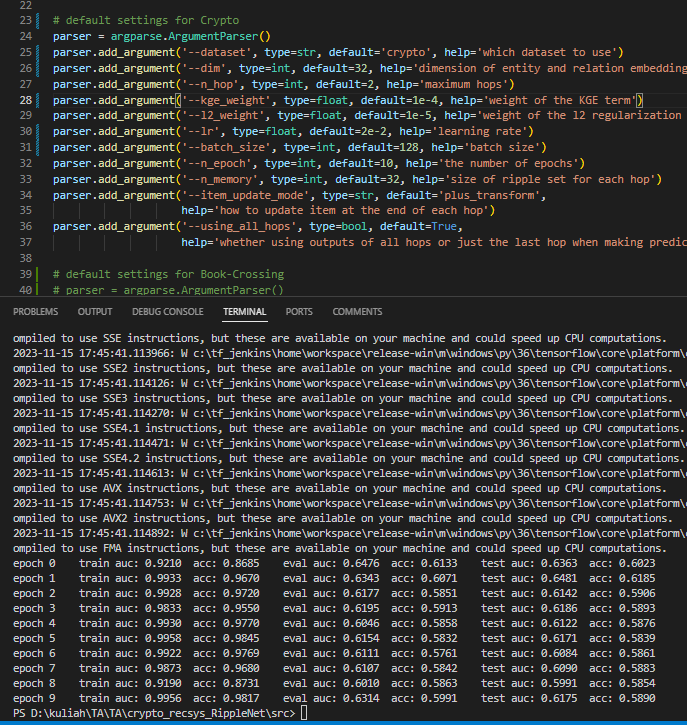
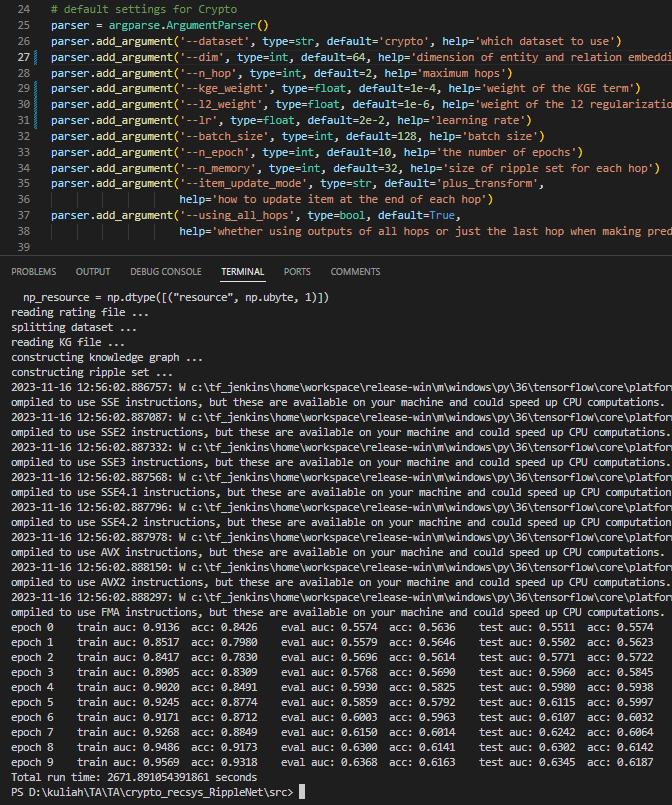
did 10 iterations

diff --git a/src/main.py b/src/main.py
@@ -24,14 +24,14 @@ np.random.seed(555)
 # default settings for Crypto
 parser = argparse.ArgumentParser()
 parser.add_argument('--dataset', type=str, default='crypto', help='which dataset to use')
-parser.add_argument('--dim', type=int, default=32, help='dimension of entity and relation embeddings')
+parser.add_argument('--dim', type=int, default=64, help='dimension of entity and relation embeddings')
 parser.add_argument('--n_hop', type=int, default=2, help='maximum hops')
 parser.add_argument('--kge_weight', type=float, default=1e-3, help='weight of the KGE term')
 parser.add_argument('--l2_weight', type=float, default=1e-5, help='weight of the l2 regularization term')
-parser.add_argument('--lr', type=float, default=1e-2, help='learning rate')
+parser.add_argument('--lr', type=float, default=2e-2, help='learning rate')
 parser.add_argument('--batch_size', type=int, default=128, help='batch size')
 parser.add_argument('--n_epoch', type=int, default=10, help='the number of epochs')
-parser.add_argument('--n_memory', type=int, default=32, help='size of ripple set for each hop')
+parser.add_argument('--n_memory', type=int, default=128, help='size of ripple set for each hop')
 parser.add_argument('--item_update_mode', type=str, default='plus_transform',
                     help='how to update item at the end of each hop')
 parser.add_argument('--using_all_hops', type=bool, default=True,
